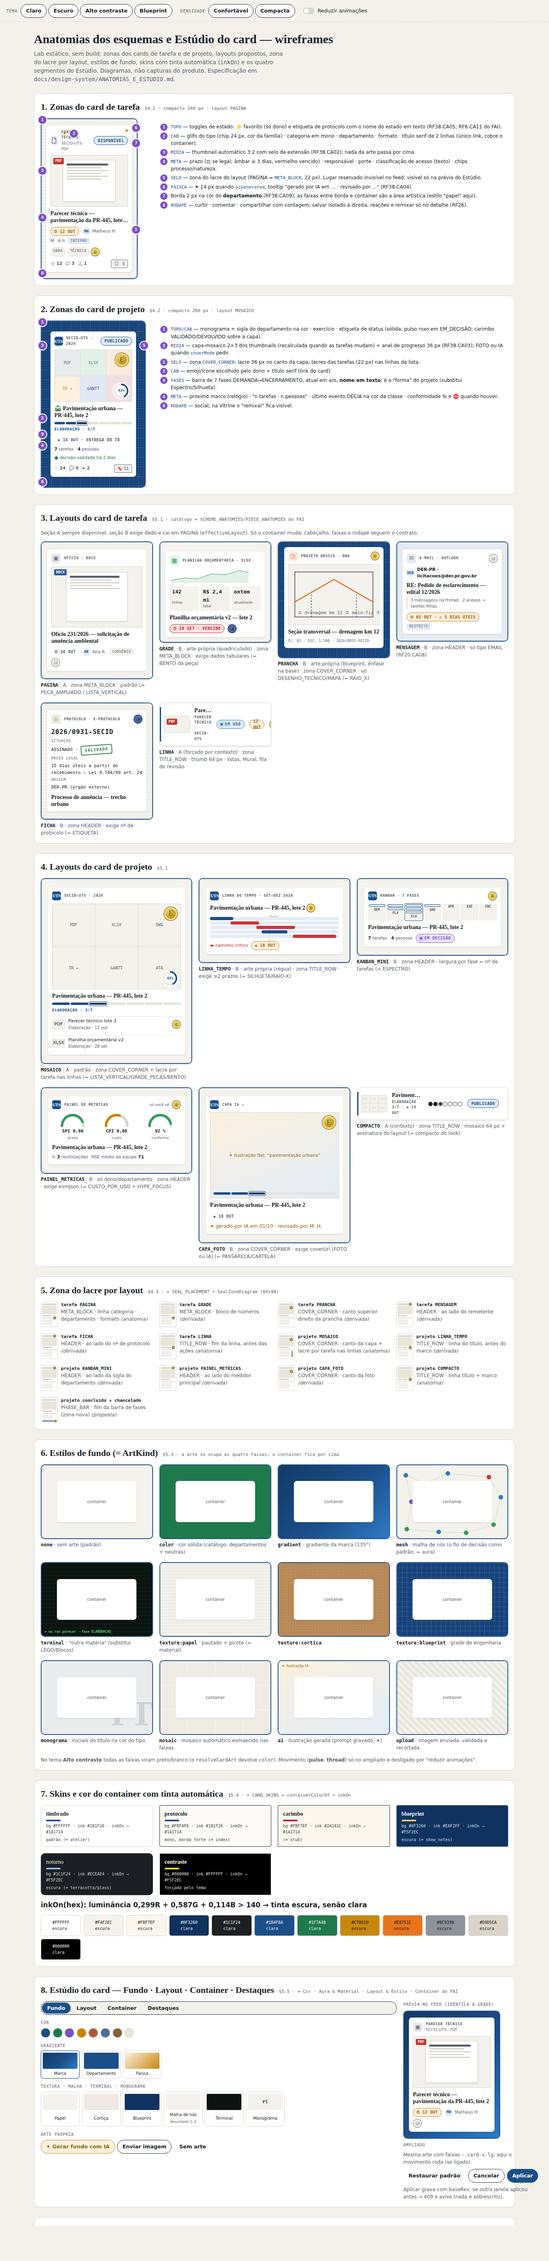
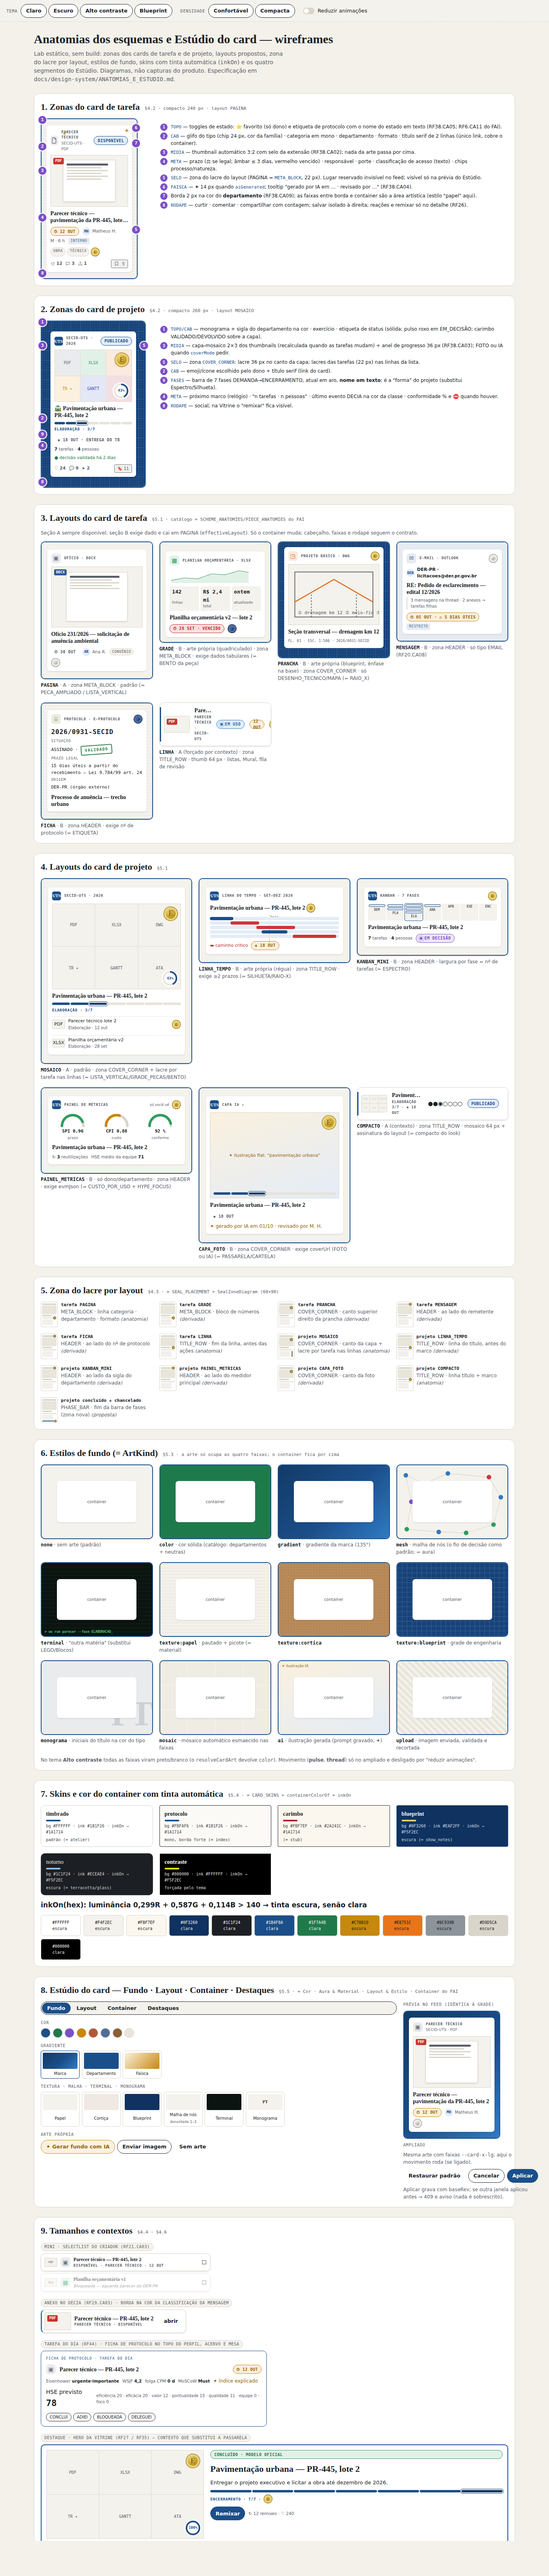
docs(diagramas): pastas RF seguem a numeração atual do board; versões anteriores preservadas em _anterior/
Claude-Session: https://claude.ai/code/session_01KGwP9AAPCHnmdWi7UQkQYW

diff --git a/docs/lab/anatomias.html b/docs/lab/anatomias.html
@@ -165,8 +165,8 @@ h1 { font-size: var(--text-h1); } h2 { font-size: var(--text-h2); } h3 { font-si
 .lab-daily .fb span { font-size: 10px; padding: 2px 8px; border: 1px solid var(--line); border-radius: var(--radius-pill); }
 .lab-sizes { display: grid; grid-template-columns: 240px 1fr; gap: 1rem; align-items: start; }
 @media (max-width: 700px) { .lab-sizes { grid-template-columns: 1fr; } }
-.lab-hero { position: relative; display: grid; grid-template-columns: 1.3fr 1fr; gap: 1rem; border: 2px solid var(--dept-gralha-azul); border-radius: var(--card-r-out); padding: 12px; background: var(--surface); }
-.lab-hero .lab-cover { aspect-ratio: 16/9; }
+.lab-hero { position: relative; display: grid; grid-template-columns: 390px 1fr; gap: 1rem; border: 2px solid var(--dept-gralha-azul); border-radius: var(--card-r-out); padding: 12px; background: var(--surface); }
+.lab-hero .lab-cover { aspect-ratio: 16/9; max-height: 220px; }
 @media (max-width: 700px) { .lab-hero { grid-template-columns: 1fr; } }
 .lab-hero h3 { font-family: var(--font-editorial); font-size: var(--text-h2); }
 
@@ -206,7 +206,7 @@ h1 { font-size: var(--text-h1); } h2 { font-size: var(--text-h2); } h3 { font-si
     <div class="lab-sizes">
       <div class="lab-anno">
         <span class="lab-zone" style="left:-6px;top:-6px" aria-hidden="true">1</span>
-        <span class="lab-zone" style="left:72px;top:28px" aria-hidden="true">2</span>
+        <span class="lab-zone" style="left:-6px;top:60px" aria-hidden="true">2</span>
         <span class="lab-zone" style="left:-6px;top:120px" aria-hidden="true">3</span>
         <span class="lab-zone" style="left:-6px;top:236px" aria-hidden="true">4</span>
         <span class="lab-zone" style="right:-6px;top:266px" aria-hidden="true">5</span>

diff --git a/docs/diagramas/RENUMERACAO.md b/docs/diagramas/RENUMERACAO.md
@@ -1,8 +1,8 @@
 # Renumeração dos RFs no board Work Station (leitura de 2026-10-03)
 
-Entre 2026-10-01 e 2026-10-02 os cards RF4–RF26 da lista *Requisitos Funcionais* foram **renomeados no padrão de numeração do FAI**, mas os corpos (critérios de aceite) continuam com os ids antigos e, em vários cards, o corpo não corresponde ao novo título. Os diagramas em `docs/diagramas/RFnn/` seguem a **numeração anterior** (a que os CAs ainda citam). Esta tabela liga as duas numerações até o board estabilizar (ver Q-44 em `../DECISOES.md`).
+Entre 2026-10-01 e 2026-10-02 os cards RF4–RF26 da lista *Requisitos Funcionais* foram **renomeados no padrão de numeração do FAI**, mas os corpos (critérios de aceite) continuam com os ids antigos e, em vários cards, o corpo não corresponde ao novo título. Desde 2026-10-05 as pastas `docs/diagramas/RFnn/` seguem a **numeração atual do board** (título do card = RF). As versões anteriores dos RFs renumerados (RF4–RF21, RF23, RF24, RF26 — inclusive os 15 RFs da sessão DECIA que ficaram sem card) estão preservadas em `docs/diagramas/_anterior/`. Esta tabela liga as duas numerações (ver Q-44 em `../DECISOES.md`).
 
-| Card atual (título novo) | Corpo/CAs que o card contém | Pasta de diagramas correspondente | Observação |
+| Card atual (título novo) | Corpo/CAs que o card contém | Conteúdo de origem (em `_anterior/`) | Observação |
 |---|---|---|---|
 | RF1, RF2, RF3 | inalterados | RF1, RF2, RF3 | RF3 = perfil **e preferências** (o brief chama a tela de preferências de "RF23") |
 | RF4 Criador de tarefas (manual/IA) | vazio | RF20 | corpo do criador de tarefas está no card RF20 |

diff --git a/docs/diagramas/CONVENCOES.md b/docs/diagramas/CONVENCOES.md
@@ -13,9 +13,12 @@ Cabeçalho obrigatório de cada README:
 ```
 # RFnn — <título do card do board>
 **HU:** HUnn · **Sprint (board Work Station):** n · **Equivalente FAI:** <texto do card> · **Aba/rota:** <se houver>
-**Critérios de aceite cobertos:** RFnn.CA01 … (RF1–RF18 não têm CAs no board: derivar das HUs e marcar "CA a confirmar")
+**Critérios de aceite cobertos:** RFnn.CA01 … — regra: o **título do card** define o RF; se o corpo do card estiver vazio, derivar 4–6 CAs do título + HU de mesmo número e marcar "(CA a confirmar)"; se o corpo contiver CAs de outro id (ex.: card RF5 com RF21.CA01–14), citar esses CAs como estão escritos e anotar "corpo do card = antigo RFxx" no cabeçalho
 ```
 
 Depois dos 5 diagramas: `## 6. Rastreabilidade` — tabela `CA → elemento do diagrama (classe / passo / mensagem / transição / componente)`.
 
 Regras Mermaid: sem `<br>` em `classDiagram`; rótulos com `:` ou `()` entre aspas; ids ASCII sem acento (texto pode ter acento); um diagrama por bloco ```mermaid. Nomes de módulos: `ws-domain`, `ws-application`, `ws-infrastructure`, `ws-web`, `ws-bootstrap`. Pacote Java raiz: `br.gov.pr.secid.workstation`.
+
+
+As pastas `docs/diagramas/RF1…RF46` seguem a numeração **atual** do board Work Station (leitura de 2026-10-05). As versões anteriores dos RFs renumerados ficam em `docs/diagramas/_anterior/` e o mapa está em `RENUMERACAO.md`.
